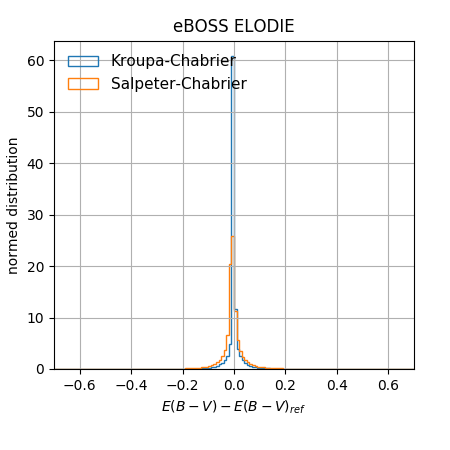
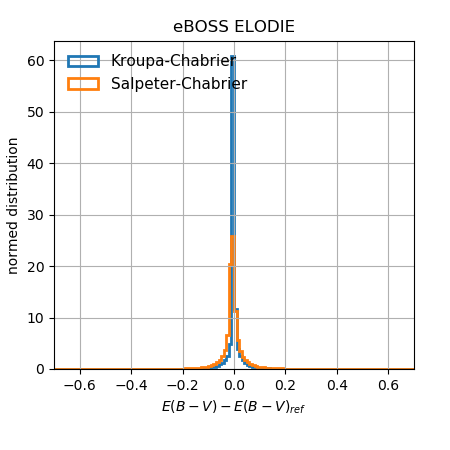
ebv images

diff --git a/bin/bin_parameters_exploration/plot_differences_ebv.py b/bin/bin_parameters_exploration/plot_differences_ebv.py
@@ -5,13 +5,97 @@ out_dir = os.path.join(os.environ['HOME'], 'software/linux/firefly_explore', 'da
 
 m_bins = n.arange(-1., 1., 0.01)
 
+
+def plotDIFF_fixed_imf_deep2(imf_ref, imf_1, imf_2):
+	print('deep2')
+	stellar_mass = imf_ref+'stellar_mass'
+	ebv = imf_ref+'spm_EBV'
+	z_flg = 'ZQUALITY'
+	z_name = 'ZBEST'
+	deep2_zOk = (deep2[z_name] > 0.001) & (deep2[z_flg]>=2.) & (deep2[z_name] < 1.7) & (deep2['SSR']>0) & (deep2['TSR']>0) & (deep2['SSR']<=1.0001) & (deep2['TSR']<=1.0001)
+	deep2_sel_02 = (deep2_zOk) & (deep2[stellar_mass] < 10**14. ) & (deep2[stellar_mass] > 0. )  & (deep2[stellar_mass] >= deep2[stellar_mass+'_low_1sig'] ) & (deep2[stellar_mass] <= deep2[stellar_mass+'_up_1sig'] ) & ( - n.log10(deep2[stellar_mass+'_low_1sig'])  + n.log10(deep2[stellar_mass+'_up_1sig']) < 0.4 )
+	deep2_sel_04 = (deep2_zOk) & (deep2[stellar_mass] < 10**14. ) & (deep2[stellar_mass] > 0. )  & (deep2[stellar_mass] >= deep2[stellar_mass+'_low_1sig'] ) & (deep2[stellar_mass] <= deep2[stellar_mass+'_up_1sig'] ) & ( - n.log10(deep2[stellar_mass+'_low_1sig'])  + n.log10(deep2[stellar_mass+'_up_1sig']) < 0.8 )&(deep2[ebv]>0)
+	# defines ref quantity
+	ebv_04_ref = deep2[ebv][deep2_sel_04]
+	# quantity to compare to
+	ebv_1 = imf_1+'spm_EBV'
+	ebv_04_1 = deep2[ebv_1][deep2_sel_04]
+	# quantity to compare to
+	ebv_2 = imf_2+'spm_EBV'
+	ebv_04_2 = deep2[ebv_2][deep2_sel_04]
+	# normalized comparison ratio
+	delta_m1 = (ebv_04_1-ebv_04_ref)
+	delta_m2 = (ebv_04_2-ebv_04_ref)
+	# figure
+	p.figure(2, (4.5, 4.5))
+	p.axes([0.12,0.18,0.8,0.73])
+	p.hist(delta_m1, bins=m_bins, histtype='step', label=imf_1.split('_')[1]+"-"+imf_ref.split('_')[1] , normed=True, lw=2 )
+	p.hist(delta_m2, bins=m_bins, histtype='step', label=imf_2.split('_')[1]+"-"+imf_ref.split('_')[1] , normed=True, lw=2 )
+	#p.plot(m_bins, norm.pdf(m_bins, loc=0, scale=1), label='N(0,1)', ls='dashed')
+	p.ylabel('normed distribution')
+	p.xlabel(r'$E(B-V)-E(B-V)_{ref}$')
+	p.title('DEEP2 '+imf_ref.split('_')[0])
+	p.legend(loc=2, frameon = False, fontsize=11)
+	p.xlim((-0.7, 0.7))
+	p.grid()
+	p.savefig(os.path.join(out_dir, "delta_EBV_distribution_deep2"+imf_ref.split('_')[0]+".png" ))
+	p.clf()
+
+
+
+plotDIFF_fixed_imf_deep2(	imf_ref = imfs[0], 	imf_1   = imfs[1], 	imf_2   = imfs[2])
+plotDIFF_fixed_imf_deep2(	imf_ref = imfs[3], 	imf_1   = imfs[4], 	imf_2   = imfs[5])
+plotDIFF_fixed_imf_deep2(	imf_ref = imfs[6], 	imf_1   = imfs[7], 	imf_2   = imfs[8])
+
+def plotDIFF_fixed_imf_sdss(imf_ref, imf_1, imf_2):
+	print('sdss')
+	stellar_mass = imf_ref+'stellar_mass'
+	ebv = imf_ref+'spm_EBV'
+	# selections boo
+	redshift_reliable_sdss =  (sdss['CLASS'] == "GALAXY")       & ( sdss['Z_ERR'] > 0.0)       & (sdss['ZWARNING'] == 0)       & (sdss['Z'] > 0.001) & (sdss['Z'] > sdss['Z_ERR'] ) # (sdss['SN_MEDIAN_ALL'] > 0.1 ) &
+	error_reliable_sdss = (sdss[stellar_mass+'_up_1sig'] > sdss[stellar_mass+'_low_1sig'] ) & (sdss[stellar_mass+'_up_1sig'] > 0. ) & ( sdss[stellar_mass+'_low_1sig'] > 0. ) & (sdss[stellar_mass+'_up_1sig'] < 1e14 ) & ( sdss[stellar_mass+'_low_1sig'] < 1e14 ) 
+	mass_reliable_sdss_02 = (sdss[stellar_mass] > 1e6 ) & ( sdss[stellar_mass] < 1e14 ) & ((n.log10(sdss[stellar_mass+'_up_1sig']) - n.log10(sdss[stellar_mass+'_low_1sig']))/2. < 0.2 )
+	mass_reliable_sdss_04 = (sdss[stellar_mass] > 1e6 ) & ( sdss[stellar_mass] < 1e14 ) & ((n.log10(sdss[stellar_mass+'_up_1sig']) - n.log10(sdss[stellar_mass+'_low_1sig']))/2. < 0.4 )
+	ok_sdss_04 = (error_reliable_sdss) & (mass_reliable_sdss_04) & (redshift_reliable_sdss)&(sdss[ebv]>0)
+	# defines ref quantity
+	ebv_04_ref = sdss[ebv][ok_sdss_04]
+	# quantity to compare to
+	ebv_1 = imf_1+'spm_EBV'
+	ebv_04_1 = sdss[ebv_1][ok_sdss_04]
+	# quantity to compare to
+	ebv_2 = imf_2+'spm_EBV'
+	ebv_04_2 = sdss[ebv_2][ok_sdss_04]
+	# normalized comparison ratio
+	delta_m1 = (ebv_04_1-ebv_04_ref)
+	delta_m2 = (ebv_04_2-ebv_04_ref)
+	# figure
+	p.figure(2, (4.5, 4.5))
+	p.axes([0.12,0.18,0.8,0.73])
+	p.hist(delta_m1, bins=m_bins, histtype='step', label=imf_1.split('_')[1]+"-"+imf_ref.split('_')[1] , normed=True, lw=2 )
+	p.hist(delta_m2, bins=m_bins, histtype='step', label=imf_2.split('_')[1]+"-"+imf_ref.split('_')[1] , normed=True, lw=2 )
+	#p.plot(m_bins, norm.pdf(m_bins, loc=0, scale=1), label='N(0,1)', ls='dashed')
+	p.ylabel('normed distribution')
+	p.xlabel(r'$E(B-V)-E(B-V)_{ref}$')
+	p.title('SDSS '+imf_ref.split('_')[0])
+	p.legend(loc=2, frameon = False, fontsize=11)
+	p.xlim((-0.7, 0.7))
+	p.grid()
+	p.savefig(os.path.join(out_dir, "delta_EBV_distribution_sdss"+imf_ref.split('_')[0]+".png" ))
+	p.clf()
+
+
+
+plotDIFF_fixed_imf_sdss(	imf_ref = imfs[0], 	imf_1   = imfs[1], 	imf_2   = imfs[2])
+plotDIFF_fixed_imf_sdss(	imf_ref = imfs[3], 	imf_1   = imfs[4], 	imf_2   = imfs[5])
+plotDIFF_fixed_imf_sdss(	imf_ref = imfs[6], 	imf_1   = imfs[7], 	imf_2   = imfs[8])
+
 def plotDIFF_fixed_imf(imf_ref, imf_1, imf_2):
 	print('eboss')
 	stellar_mass = imf_ref+'stellar_mass'
 	ebv = imf_ref+'spm_EBV'
 	# selections boo
 	redshift_reliable_boss =  (boss['CLASS_NOQSO'] == "GALAXY") & ( boss['Z_ERR_NOQSO'] > 0.0) & (boss['ZWARNING_NOQSO'] == 0) & (boss['Z_NOQSO']>0.001) & (boss['Z_NOQSO'] > boss['Z_ERR_NOQSO'] ) # (boss['SN_MEDIAN_ALL'] > 0.1 ) & 
-	error_reliable_boss = (boss[stellar_mass+'_up_1sig'] > boss[stellar_mass+'_low_1sig'] ) & (boss[stellar_mass+'_up_1sig'] > 0. ) & ( boss[stellar_mass+'_low_1sig'] > 0. ) & (boss[stellar_mass+'_up_1sig'] < 1e14 ) & ( boss[stellar_mass+'_low_1sig'] < 1e14 ) 	
+	error_reliable_boss = (boss[stellar_mass+'_up_1sig'] > boss[stellar_mass+'_low_1sig'] ) & (boss[stellar_mass+'_up_1sig'] > 0. ) & ( boss[stellar_mass+'_low_1sig'] > 0. ) & (boss[stellar_mass+'_up_1sig'] < 1e14 ) & ( boss[stellar_mass+'_low_1sig'] < 1e14 ) 
 	mass_reliable_boss_04 = (boss[stellar_mass] > 1e6 ) & ( boss[stellar_mass] < 1e14 ) & ((n.log10(boss[stellar_mass+'_up_1sig']) - n.log10(boss[stellar_mass+'_low_1sig']))/2. < 0.4)
 	ok_boss_04 = (error_reliable_boss) & (mass_reliable_boss_04) & (redshift_reliable_boss)&(boss[ebv]>0)
 	# defines ref quantity
@@ -28,8 +112,8 @@ def plotDIFF_fixed_imf(imf_ref, imf_1, imf_2):
 	# figure
 	p.figure(2, (4.5, 4.5))
 	p.axes([0.12,0.18,0.8,0.73])
-	p.hist(delta_m1, bins=m_bins, histtype='step', label=imf_1.split('_')[1]+"-"+imf_ref.split('_')[1] , normed=True )
-	p.hist(delta_m2, bins=m_bins, histtype='step', label=imf_2.split('_')[1]+"-"+imf_ref.split('_')[1] , normed=True )
+	p.hist(delta_m1, bins=m_bins, histtype='step', label=imf_1.split('_')[1]+"-"+imf_ref.split('_')[1] , normed=True, lw=2 )
+	p.hist(delta_m2, bins=m_bins, histtype='step', label=imf_2.split('_')[1]+"-"+imf_ref.split('_')[1] , normed=True, lw=2 )
 	#p.plot(m_bins, norm.pdf(m_bins, loc=0, scale=1), label='N(0,1)', ls='dashed')
 	p.ylabel('normed distribution')
 	p.xlabel(r'$E(B-V)-E(B-V)_{ref}$')
@@ -64,8 +148,8 @@ def plotDIFF_fixed_lib(imf_ref, imf_1, imf_2):
 	# figure
 	p.figure(2, (4.5, 4.5))
 	p.axes([0.12,0.18,0.8,0.73])
-	p.hist(delta_m1, bins=m_bins, histtype='step', label=imf_1.split('_')[0]+"-"+imf_ref.split('_')[0] , normed=True )
-	p.hist(delta_m2, bins=m_bins, histtype='step', label=imf_2.split('_')[0]+"-"+imf_ref.split('_')[0] , normed=True )
+	p.hist(delta_m1, bins=m_bins, histtype='step', label=imf_1.split('_')[0]+"-"+imf_ref.split('_')[0] , normed=True, lw=2 )
+	p.hist(delta_m2, bins=m_bins, histtype='step', label=imf_2.split('_')[0]+"-"+imf_ref.split('_')[0] , normed=True, lw=2 )
 	#p.plot(m_bins, norm.pdf(m_bins, loc=0, scale=1), label='N(0,1)', ls='dashed')
 	p.ylabel('normed distribution')
 	p.xlabel(r'$E(B-V)-E(B-V)_{ref}$')

diff --git a/bin/bin_parameters_exploration/plot_distribution_ebv.py b/bin/bin_parameters_exploration/plot_distribution_ebv.py
@@ -50,10 +50,7 @@ for imf in imfs:
   error_reliable_sdss = (sdss[stellar_mass+'_up_1sig'] > sdss[stellar_mass+'_low_1sig'] ) & (sdss[stellar_mass+'_up_1sig'] > 0. ) & ( sdss[stellar_mass+'_low_1sig'] > 0. ) & (sdss[stellar_mass+'_up_1sig'] < 1e14 ) & ( sdss[stellar_mass+'_low_1sig'] < 1e14 ) 
   mass_reliable_sdss_02 = (sdss[stellar_mass] > 1e6 ) & ( sdss[stellar_mass] < 1e14 ) & ((n.log10(sdss[stellar_mass+'_up_1sig']) - n.log10(sdss[stellar_mass+'_low_1sig']))/2. < 0.2 )
   mass_reliable_sdss_04 = (sdss[stellar_mass] > 1e6 ) & ( sdss[stellar_mass] < 1e14 ) & ((n.log10(sdss[stellar_mass+'_up_1sig']) - n.log10(sdss[stellar_mass+'_low_1sig']))/2. < 0.4 )
-  ok_sdss_02 = (error_reliable_sdss) & (mass_reliable_sdss_02) & (redshift_reliable_sdss)
   ok_sdss_04 = (error_reliable_sdss) & (mass_reliable_sdss_04) & (redshift_reliable_sdss)&(sdss[age]>0)
-
-  #Ms_02_sdss = n.log10(sdss[stellar_mass][ok_sdss_02]) 
   Ms_04_sdss = sdss[age][ok_sdss_04]
 
   p.hist(Ms_04_sdss, bins = m_bins, histtype='step', label=imf[:-1] , cumulative=True, normed=True  )

diff --git a/python/lib_spm.py b/python/lib_spm.py
@@ -41,7 +41,7 @@ path_2_eboss_cat = os.path.join(  os.environ['OBS_REPO'], 'SDSS', 'v5_10_0', 'ca
 
 # DEEP SURVEYS
 deep2_dir = os.path.join(os.environ['OBS_REPO'], 'DEEP2')
-path_2_deep2_cat = os.path.join( deep2_dir, "zcat.deep2.dr4.v4.LFcatalogTC.Planck13.spm.v3.fits.gz" )
+path_2_deep2_cat = os.path.join( deep2_dir, "zcat.deep2.dr4.v4.LFcatalogTC.Planck13.spm.v3.SNR.fits" )
 
 #vipers_dir = os.path.join(os.environ['OBS_REPO'], 'VIPERS')
 #path_2_vipers_cat = os.path.join( vipers_dir, "VIPERS_W14_summary_v2.1.linesFitted.spm.fits" )
